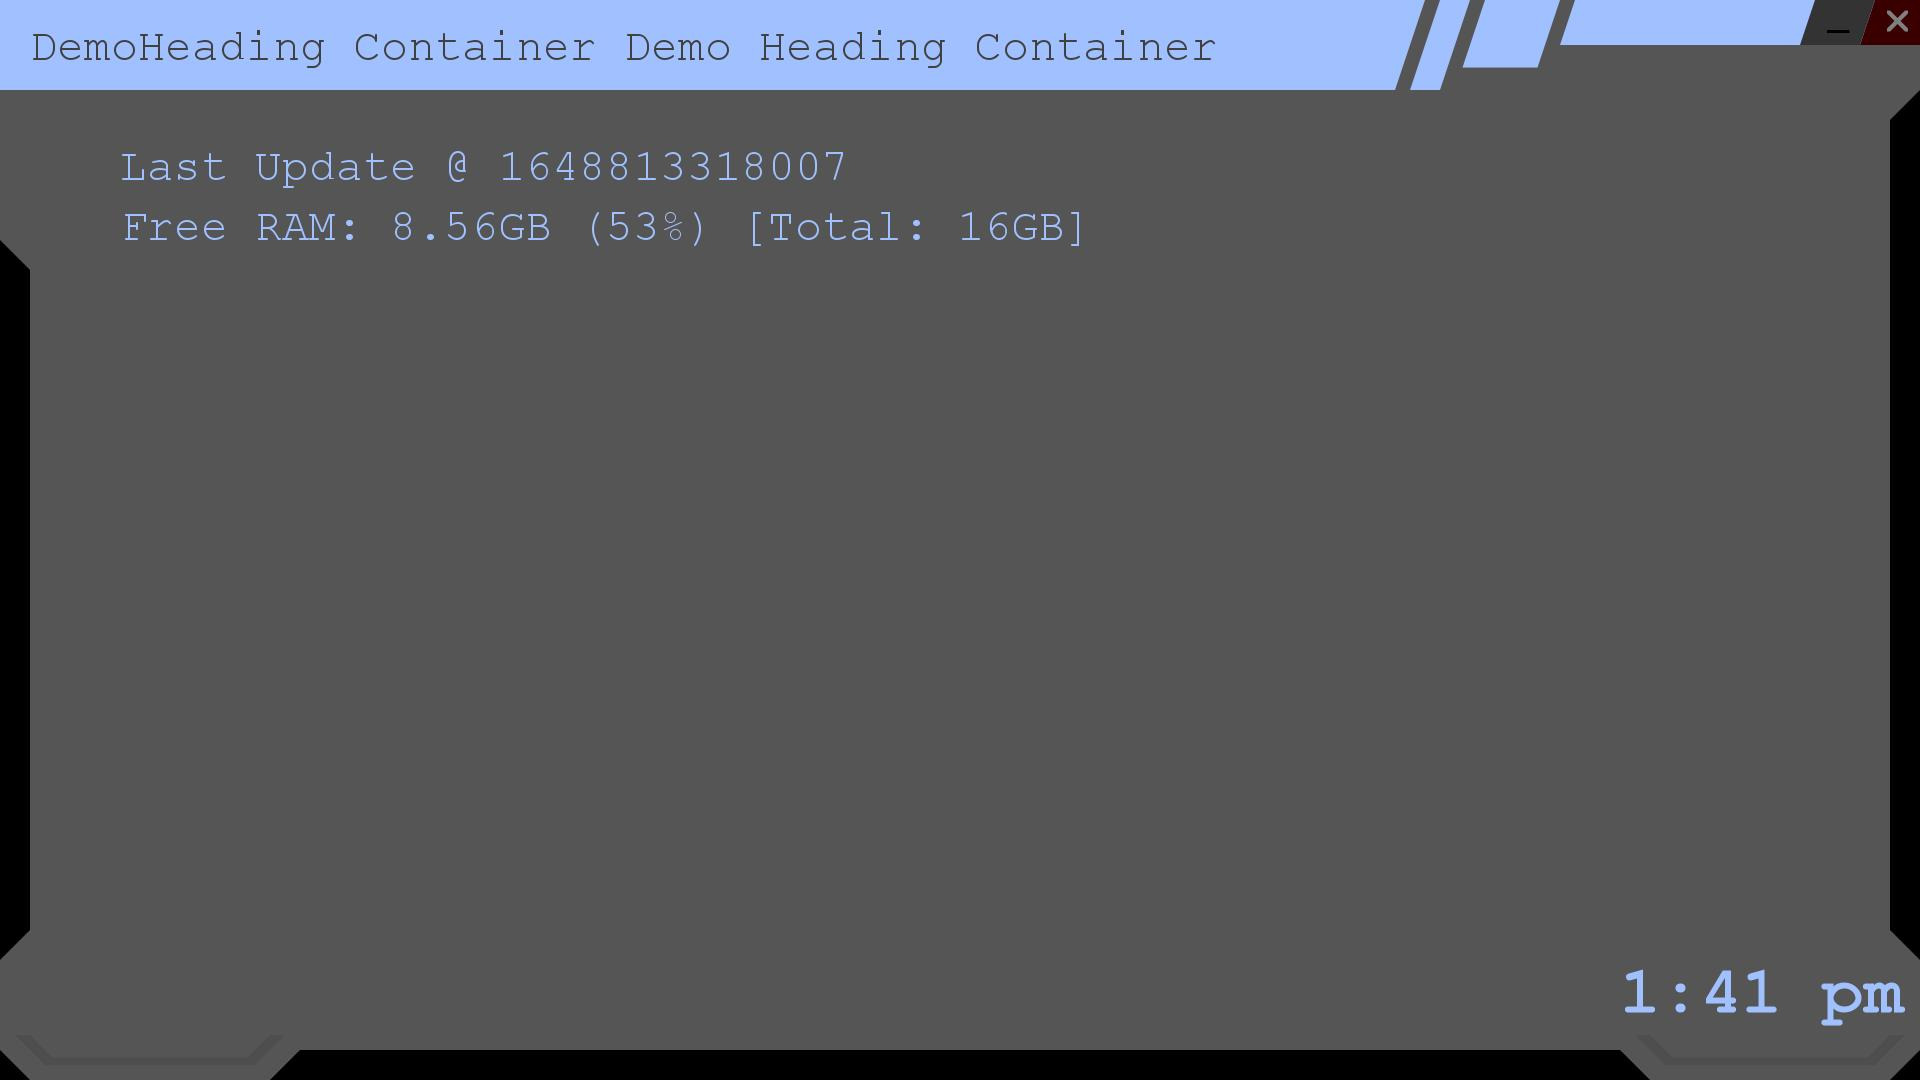
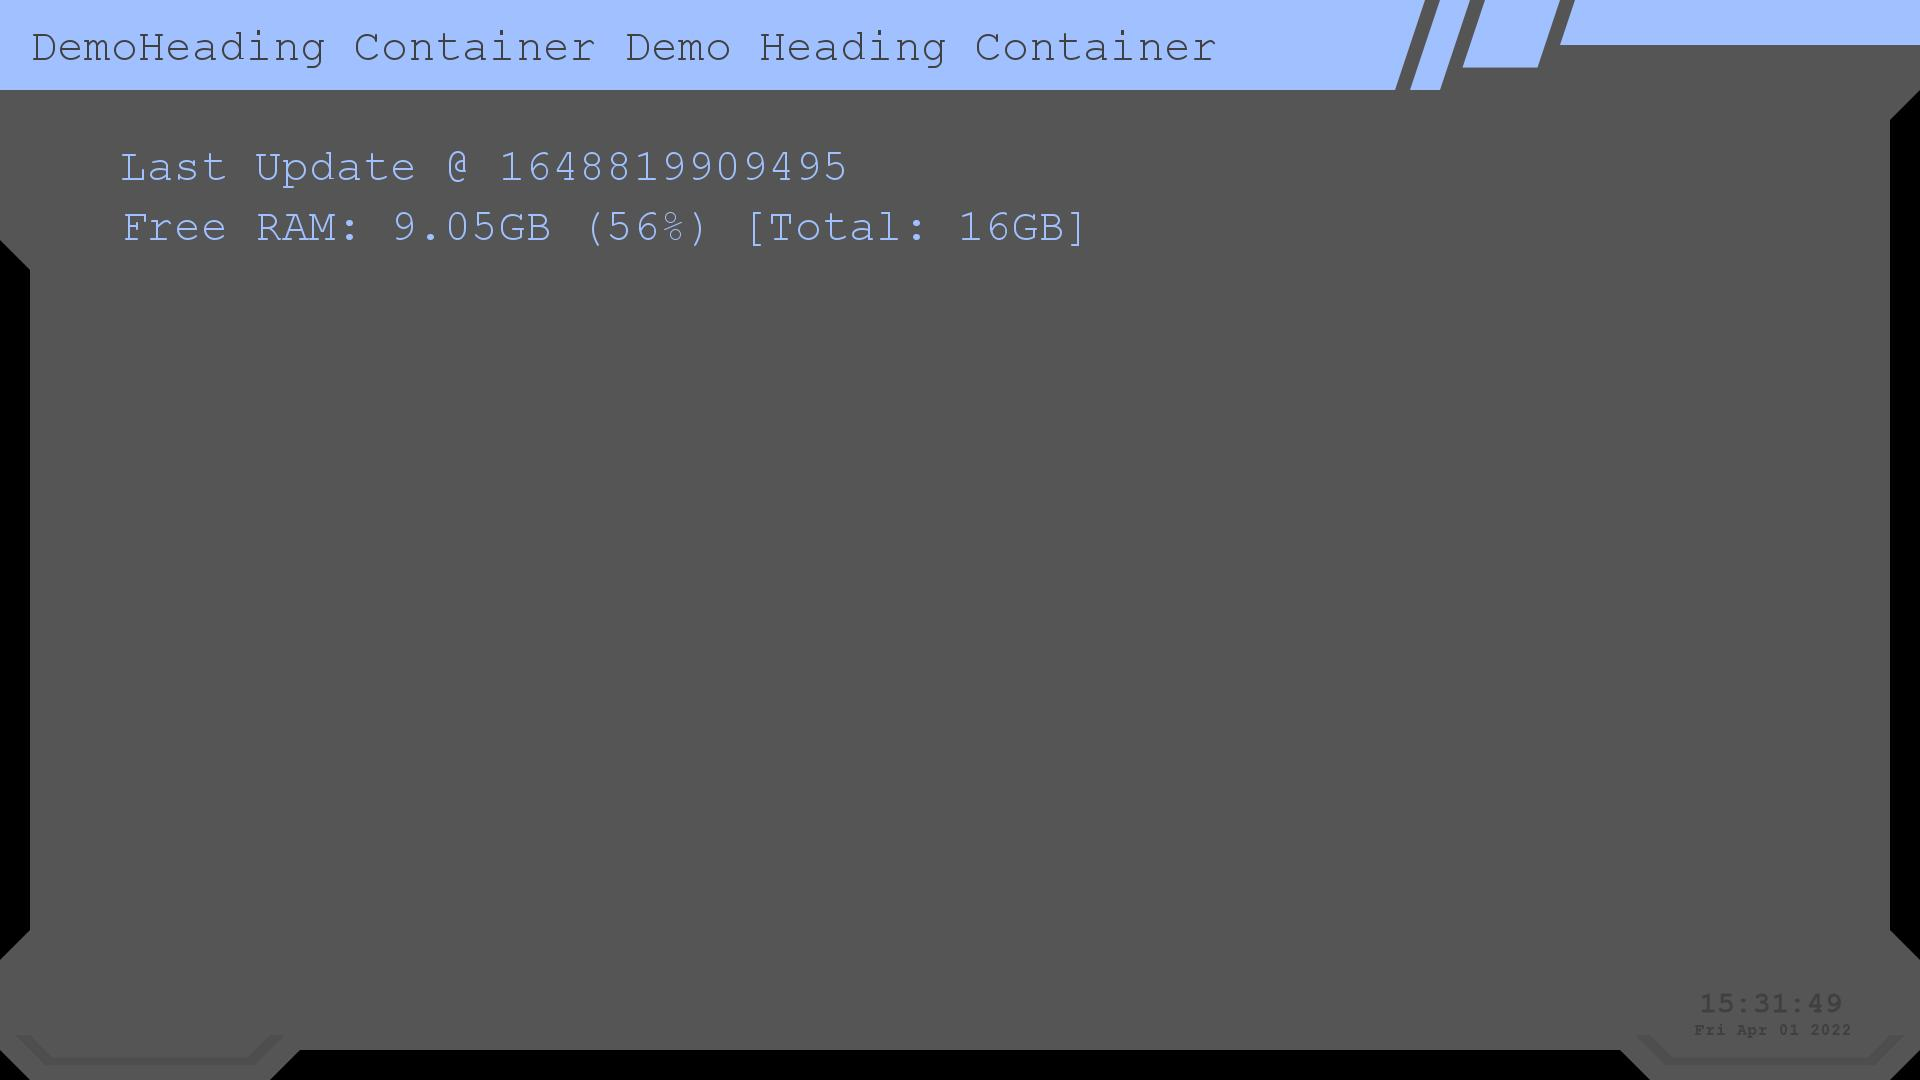
yea some fixes to wallpaper and config

diff --git a/src/wallpaperGUI/template.js b/src/wallpaperGUI/template.js
@@ -15,8 +15,8 @@ function svgTemplate(data = {}) {
     circle: (x, y, radius, color) => {
       return `<circle cx="${x}" cy="${y}" r="${radius}" fill="${color}" />`;
     },
-    text: (x, y, text, color) => {
-      return `<text x="${x}" y="${y}" fill="${color || this.main}">${text}</text>`;
+    text: (x, y, text, color, size) => {
+      return `<text x="${x}" y="${y}" fill="${color || this.main}"  font-size="${size || this.normalFontSize}">${text}</text>`;
     },
     line: (x1, y1, x2, y2, color) => {
       return `<line x1="${x1}" y1="${y1}" x2="${x2}" y2="${y2}" stroke="${color}" />`;
@@ -31,18 +31,6 @@ function svgTemplate(data = {}) {
       return `<image x="${x}" y="${y}" width="${width}" height="${height}" xlink:href="${url}" />`;
     }
   };
-
-  function formatAMPM(date) {
-    var hours = date.getHours();
-    var minutes = date.getMinutes();
-    var ampm = hours >= 12 ? 'pm' : 'am';
-    hours = hours % 12;
-    hours = hours ? hours : 12; // the hour '0' should be '12'
-    minutes = minutes < 10 ? '0'+minutes : minutes;
-    var strTime = hours + ':' + minutes + ' ' + ampm;
-    return strTime;
-  }
-
 
 
   this.name = data.name || "customSVGdemoName";
@@ -60,7 +48,7 @@ function svgTemplate(data = {}) {
   this.superFontSize = 45;
   this.mainFontSize = 30;
   this.subFontSize = 20;
-  this.minFontSize = 11;
+  this.normalFontSize = 11;
   this.strokeWidth = 3;
 
   this.debugX = data.debugX || 980;
@@ -71,35 +59,69 @@ function svgTemplate(data = {}) {
   this.render = async (val = {}) => {
     if (this.useRandomColors) this.randomColors();
     return `<svg xmlns="http://www.w3.org/2000/svg" viewBox="0 0 ${this.helperWidth} ${this.helperHeight}"  height="${this.helperHeight}" width="${this.helperWidth}" class="${this.name}">
+
+
               <path d="M 0 0 l ${this.helperWidth} 0 0 60 -20 20 0 ${(this.helperHeight - 180)}  20 20 0 60 -20 20 -160 0 -20 -20${-(this.helperWidth - 400)}  0 -20 20 -160 0 -20 -20 0 -60 20 -20 0 ${-(this.helperHeight - 280)}  -20 -20" stroke="none" stroke-width="${this.strokeWidth}" fill="${this.containerBackground}" ></path>
               <path d="M 0 0 l ${(this.helperWidth - 330)}  0 -20 60 ${-(this.helperWidth - 350)}  0" stroke="none" stroke-width="${this.strokeWidth}" fill="${this.main}" ></path>
               <path d="M ${(this.helperWidth - 320)}  0 l 20 0 -20 60 -20 0" stroke="none" stroke-width="${this.strokeWidth}" fill="${this.main}" ></path>
               <path d="M ${(this.helperWidth - 290)}  0 l 50 0 -15 45 -50 0" stroke="none" stroke-width="${this.strokeWidth}" fill="${this.main}" ></path>
               <path d="M ${(this.helperWidth - 230)}  0 l 230 0 0 30 -240 0" stroke="none" stroke-width="${this.strokeWidth}" fill="${this.main}" ></path>
-              <path d="M ${(this.helperWidth - 30)}  0 l 30 0 0 30 -40 0 10 -30" stroke="none" stroke-width="${this.strokeWidth}" fill="#3a0000" ></path>
-              <path d="M ${(this.helperWidth - 22)}  7 l 2 0 5 5 5 -5 2 0 0 2 -5 5 5 5 0 2 -2 0 -5 -5 -5 5 -2 0 0 -2 5 -5 -5 -5" stroke="none" stroke-width="${this.strokeWidth}" fill="gray" ></path>
-              <path d="M ${(this.helperWidth - 70)}  0 l 40 0 -10 30 -40 0 10 -30" stroke="none" stroke-width="${this.strokeWidth}" fill="#333333" ></path>
-              <path d="M ${(this.helperWidth - 62)}  20 l 15 0 0 2 -15 0" stroke="none" stroke-width="${this.strokeWidth}" ></path>
+
               <path d="M 10 ${(this.helperHeight - 30)}  l  20 20 140 0 20 -20 -10 0 -15 15 -130 0 -15 -15" stroke="none" stroke-width="${this.strokeWidth}" fill="${this.background}" ></path>
               <path d="M ${(this.helperWidth - 190)}  ${(this.helperHeight - 30)}  l  20 20 140 0 20 -20 -10 0 -15 15 -130 0 -15 -15" stroke="none" stroke-width="${this.strokeWidth}" fill="${this.background}" ></path>
 
-              <g font-size="${this.mainFontSize}"  font-family="monospace" fill="${this.background}" stroke="none"  >
-                ${draw.text(20, 40, `DemoHeading Container Demo Heading Container`, this.backgroundAlt)}
-                ${draw.text(80, 120, `Last Update @ ${Date.now()}`)}
-                ${draw.text(80, 160, `Free RAM: ${await vCache.get('freemem')}GB (${await vCache.get('freememproc')}%) [Total: ${await vCache.get('totalmem')}GB]`)}
-              </g>
+              ${await this.printOsInfo()}
 
-              <g font-size="${this.superFontSize}"  font-family="monospace" font-weight="bold" fill="${this.mainAlt}"  stroke="none" >
-                ${draw.text(this.helperWidth - 200, this.helperHeight - 45, formatAMPM(new Date))}
-              </g>
-
-
+              ${this.printClock()}
               ${this.debug(val)}
 
             </svg>`;
 
   };
 
+
+  this.printOsInfo = async () => {
+    return `<g font-size="${this.mainFontSize}"  font-family="monospace" fill="${this.background}" stroke="none"  >
+              ${draw.text(20, 40, `DemoHeading Container Demo Heading Container`, this.backgroundAlt, this.mainFontSize)}
+              ${draw.text(80, 120, `Last Update @ ${Date.now()}`, this.main, this.mainFontSize)}
+              ${draw.text(80, 160, `Free RAM: ${await vCache.get('freemem')}GB (${await vCache.get('freememproc')}%) [Total: ${await vCache.get('totalmem')}GB]`, this.main, this.mainFontSize)}
+            </g>`;
+  };
+
+
+  this.printClock = () => {
+    var date = new Date();
+    var hours = date.getHours();
+    var minutes = date.getMinutes();
+    var seconds = date.getSeconds();
+    var datePrint = String(date).split(' ');
+
+    datePrint = datePrint[0] + ' ' + datePrint[1] + ' ' + datePrint[2] + ' ' + datePrint[3];
+
+    hours = hours < 10 ? ' ' + hours : hours;
+    minutes = minutes < 10 ? '0' + minutes : minutes;
+    seconds = seconds < 10 ? '0' + seconds : seconds;
+
+    var strTime = hours + ':' + minutes + ':' + seconds ;
+
+    return `<g font-family="monospace" font-weight="bold"  >
+              ${draw.text(this.helperWidth - 147.5, this.helperHeight - 45, strTime, this.backgroundAlt, this.subFontSize)}
+              ${draw.text(this.helperWidth - 150, this.helperHeight - 30, datePrint, this.backgroundAlt, this.normalFontSize)}
+            </g>`;
+  };
+
+
+  // This is from the OLD thing where I used the original as a sample based SVG UI
+  this.minimizeButton = () => {
+    return `<path d="M ${(this.helperWidth - 70)}  0 l 40 0 -10 30 -40 0 10 -30" stroke="none" stroke-width="${this.strokeWidth}" fill="#333333" ></path>
+            <path d="M ${(this.helperWidth - 62)}  20 l 15 0 0 2 -15 0" stroke="none" stroke-width="${this.strokeWidth}" ></path>`;
+  };
+
+
+  this.printCloseButton = () => {
+    return `<path d="M ${(this.helperWidth - 30)}  0 l 30 0 0 30 -40 0 10 -30" stroke="none" stroke-width="${this.strokeWidth}" fill="#3a0000" ></path>
+            <path d="M ${(this.helperWidth - 22)}  7 l 2 0 5 5 5 -5 2 0 0 2 -5 5 5 5 0 2 -2 0 -5 -5 -5 5 -2 0 0 -2 5 -5 -5 -5" stroke="none" stroke-width="${this.strokeWidth}" fill="gray" ></path>`;
+  };
 
 
   this.randomColors = () => {
@@ -116,24 +138,23 @@ function svgTemplate(data = {}) {
 
 
   this.debug = (val = {}) => {
-    console.log(config);
     if (config.debug) {
 
       return `
               <path d="M ${this.debugX - 15} ${this.debugY - 15} l 300 0 0 75 -300 0" stroke="none" stroke-width="${this.strokeWidth}" fill="${this.background}" ></path>
               <g font-family="monospace" fill="#000000" stroke="1"  >
 
-                <text x="${this.debugX}" y="${this.debugY}" fill="${this.whiteText}" font-size="${this.minFontSize}" >Update TimeStamp </text>
-                <text x="${this.debugX + 140}" y="${this.debugY}" fill="${this.whiteText}" font-size="${this.minFontSize}" >[ <text fill="${this.main}">${Date.now()}</text> ]</text>
+                <text x="${this.debugX}" y="${this.debugY}" fill="${this.whiteText}" font-size="${this.normalFontSize}" >Update TimeStamp </text>
+                <text x="${this.debugX + 140}" y="${this.debugY}" fill="${this.whiteText}" font-size="${this.normalFontSize}" >[ <text fill="${this.main}">${Date.now()}</text> ]</text>
 
-                <text x="${this.debugX}" y="${this.debugY + 15}" fill="${this.whiteText}" font-size="${this.minFontSize}" >Loop Execution Time </text>
-                <text x="${this.debugX + 140}" y="${this.debugY + 15}" fill="${this.whiteText}" font-size="${this.minFontSize}" >[ <text fill="${this.main}">${val.lastExecTimeVal}</text> ms ]</text>
+                <text x="${this.debugX}" y="${this.debugY + 15}" fill="${this.whiteText}" font-size="${this.normalFontSize}" >Loop Execution Time </text>
+                <text x="${this.debugX + 140}" y="${this.debugY + 15}" fill="${this.whiteText}" font-size="${this.normalFontSize}" >[ <text fill="${this.main}">${val.lastExecTimeVal}</text> ms ]</text>
 
-                <text x="${this.debugX}" y="${this.debugY + 30}" fill="${this.whiteText}" font-size="${this.minFontSize}" >TotalUpdates </text>
-                <text x="${this.debugX + 140}" y="${this.debugY + 30}" fill="${this.whiteText}" font-size="${this.minFontSize}" >[ <text fill="${this.mainAlt}">${val.totalUpdates}</text> ]</text>
+                <text x="${this.debugX}" y="${this.debugY + 30}" fill="${this.whiteText}" font-size="${this.normalFontSize}" >TotalUpdates </text>
+                <text x="${this.debugX + 140}" y="${this.debugY + 30}" fill="${this.whiteText}" font-size="${this.normalFontSize}" >[ <text fill="${this.mainAlt}">${val.totalUpdates}</text> ]</text>
 
-                <text x="${this.debugX}" y="${this.debugY + 45}" fill="${this.whiteText}" font-size="${this.minFontSize}" >TotalUpdates </text>
-                <text x="${this.debugX + 140}" y="${this.debugY + 45}" fill="${this.whiteText}" font-size="${this.minFontSize}" >[ <text fill="${this.mainAlt}">${val.totalUpdates}</text> ]</text>
+                <text x="${this.debugX}" y="${this.debugY + 45}" fill="${this.whiteText}" font-size="${this.normalFontSize}" >TotalUpdates </text>
+                <text x="${this.debugX + 140}" y="${this.debugY + 45}" fill="${this.whiteText}" font-size="${this.normalFontSize}" >[ <text fill="${this.mainAlt}">${val.totalUpdates}</text> ]</text>
 
               </g>`;
     }

diff --git a/src/helpers/v_notify/index.js b/src/helpers/v_notify/index.js
@@ -28,22 +28,11 @@ const notify = {
   },
 
 
-  tray: {
-
-    backgroundContinue : async () => {
-      return sendNotification(notificationList.tray.backgroundContinue);
-    },
-    firstItem: async () => {
-      return sendNotification(notificationList.tray.firstItem);
-    },
-
-  },
-
-
   wallpaperGUI: async () => {
     let notificationItem = (config.backgroundUpdates) ? notificationList.wallpaperGUI.enabled : notificationList.wallpaperGUI.disabled;
     return sendNotification(notificationItem);
   },
+
 
 };
 

diff --git a/src/sysTasks/index.js b/src/sysTasks/index.js
@@ -52,7 +52,7 @@ module.exports = sysTasks = (vWatch) => {
 
   // This will do the rendering of wallpaperGUI.
   // This Tasks status should match config.backgroundUpdates value.
-  vWatch.newTask("wallpaperGUI", 3000, actions.renderWallpaper);
+  vWatch.newTask("wallpaperGUI", 1000, actions.renderWallpaper);
   vWatch.setTaskStatus("wallpaperGUI", config.backgroundUpdates);
 
 

diff --git a/src/config/index.js b/src/config/index.js
@@ -110,7 +110,7 @@ const config = {
 
 
   // EXITING Timeout
-  exitingTimeout: 1000,
+  exitingTimeout: 100,
 
   set exitTimeout (value) {
     return (!isNaN(value)) ? config.exitingTimeout = value : false;
